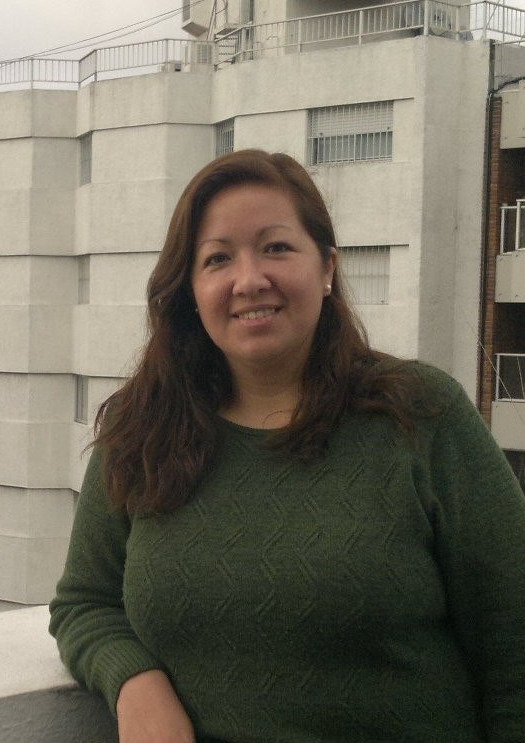
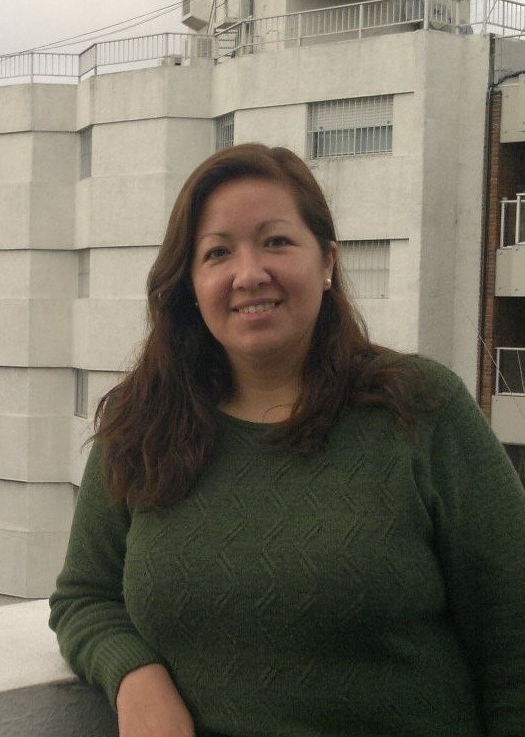
arreglo fotis 2

diff --git a/index.html b/index.html
@@ -274,7 +274,7 @@
 					</div>
 					<div class="col-md-4 col-sm-4 col-xs-6">
 						<div class="block wow fadeInLeft" data-wow-delay=".3s">
-							<img src="img/team-daniel.jpg" alt="">
+							<img src="img/team-daniel-2.jpg" alt="">
 							<div class="team-overlay">
 								<h3>DANIEL MAIO<span>Diseñador Web</span></h3>
 								<span class="icon"><i class="ion-quote"></i></span>
